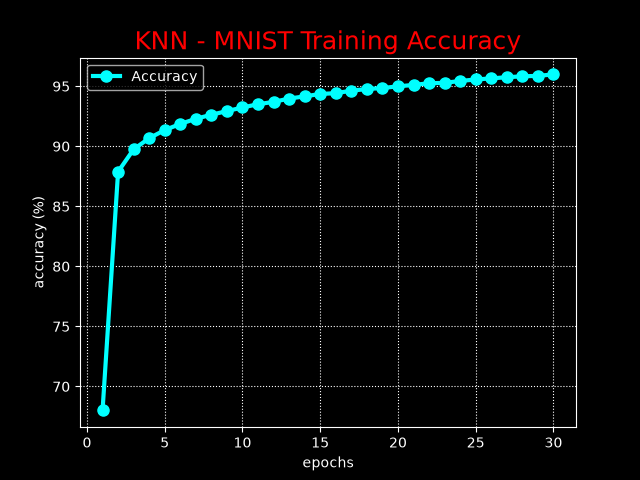
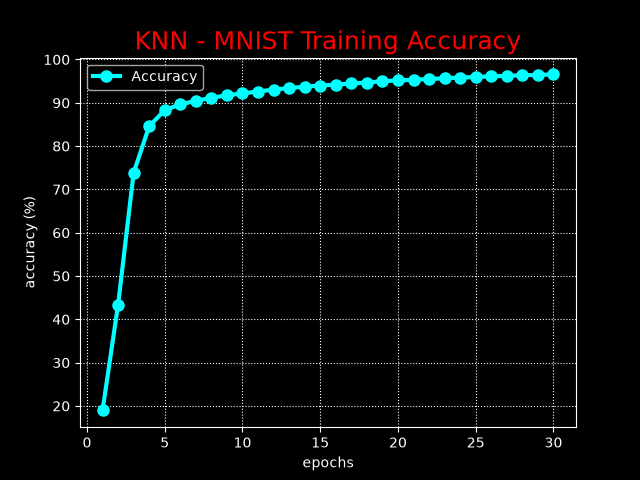
update network layer to 784,50,30,10

diff --git a/project/main.py b/project/main.py
@@ -216,7 +216,7 @@ test_data = np.loadtxt(
 
 
 
-N = Network([784, 50, 10])
+N = Network([784, 50, 30, 10])
 N.train(test_data[1:], epochs=30, lr=.5)
 
 for i in range(10):